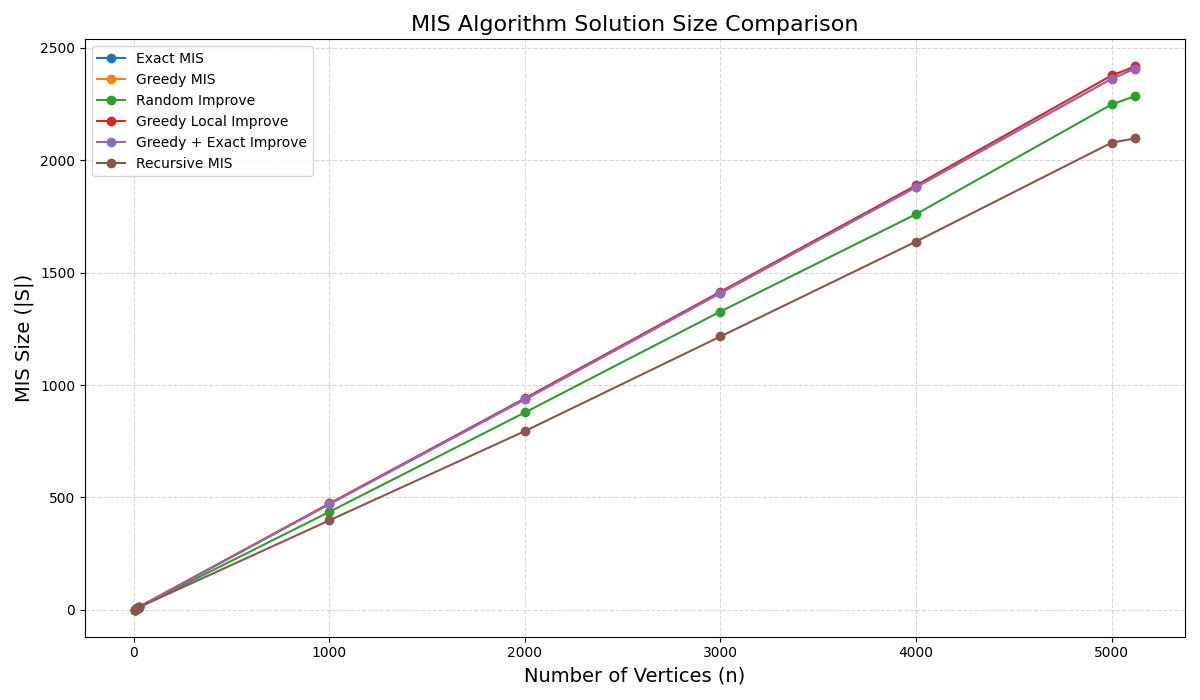
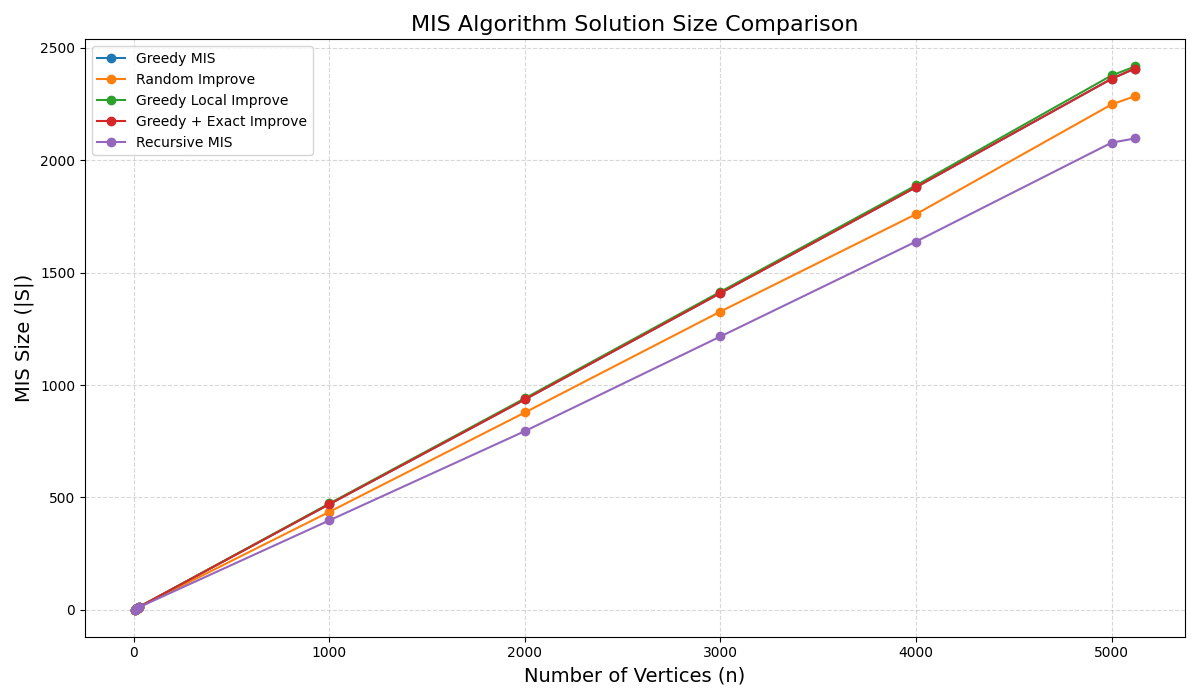
Plots Added

diff --git a/main.py b/main.py
@@ -64,9 +64,6 @@ def plot_mis_sizes(csv_file="mis_results.csv"):
 
     plt.figure(figsize=(12, 7))
 
-    # Only plot exact where it exists (small n)
-    plt.plot(x, df["exact_size"], marker="o", label="Exact MIS")
-
     plt.plot(x, df["greedy_size"], marker="o", label="Greedy MIS")
     plt.plot(x, df["random_size"], marker="o", label="Random Improve")
     plt.plot(x, df["greedy_local_improve_size"], marker="o",
@@ -228,6 +225,6 @@ def main():
 
 
 if __name__ == "__main__":
-    main()
+    #main()
     plot_mis_times()
     plot_mis_sizes()
